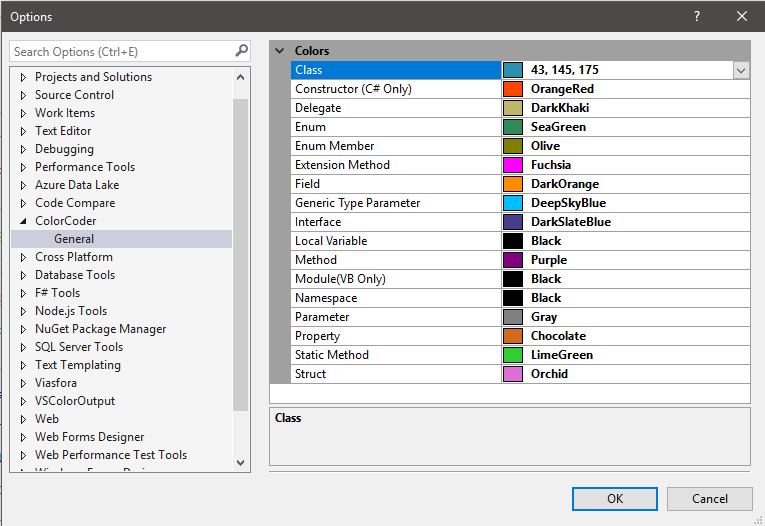
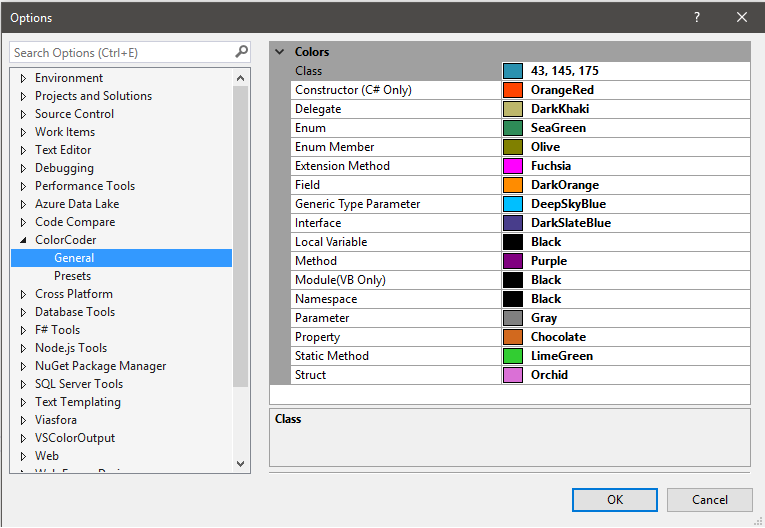
updates the readme file

diff --git a/README.md b/README.md
@@ -32,3 +32,7 @@ Code colors in VB.Net:
 You can change the colors through Visual Studio's options page:
 
 ![Color Coder Option Page](ColorCoder/Resources/ColorCoderOptionPage.png)
+
+You can also select form a set of predefined colors or restore the colors to visual studio defaults:
+
+![Color Coder Option Page Preset](ColorCoder/Resources/ColorCoderOptionPagePreset.png)
